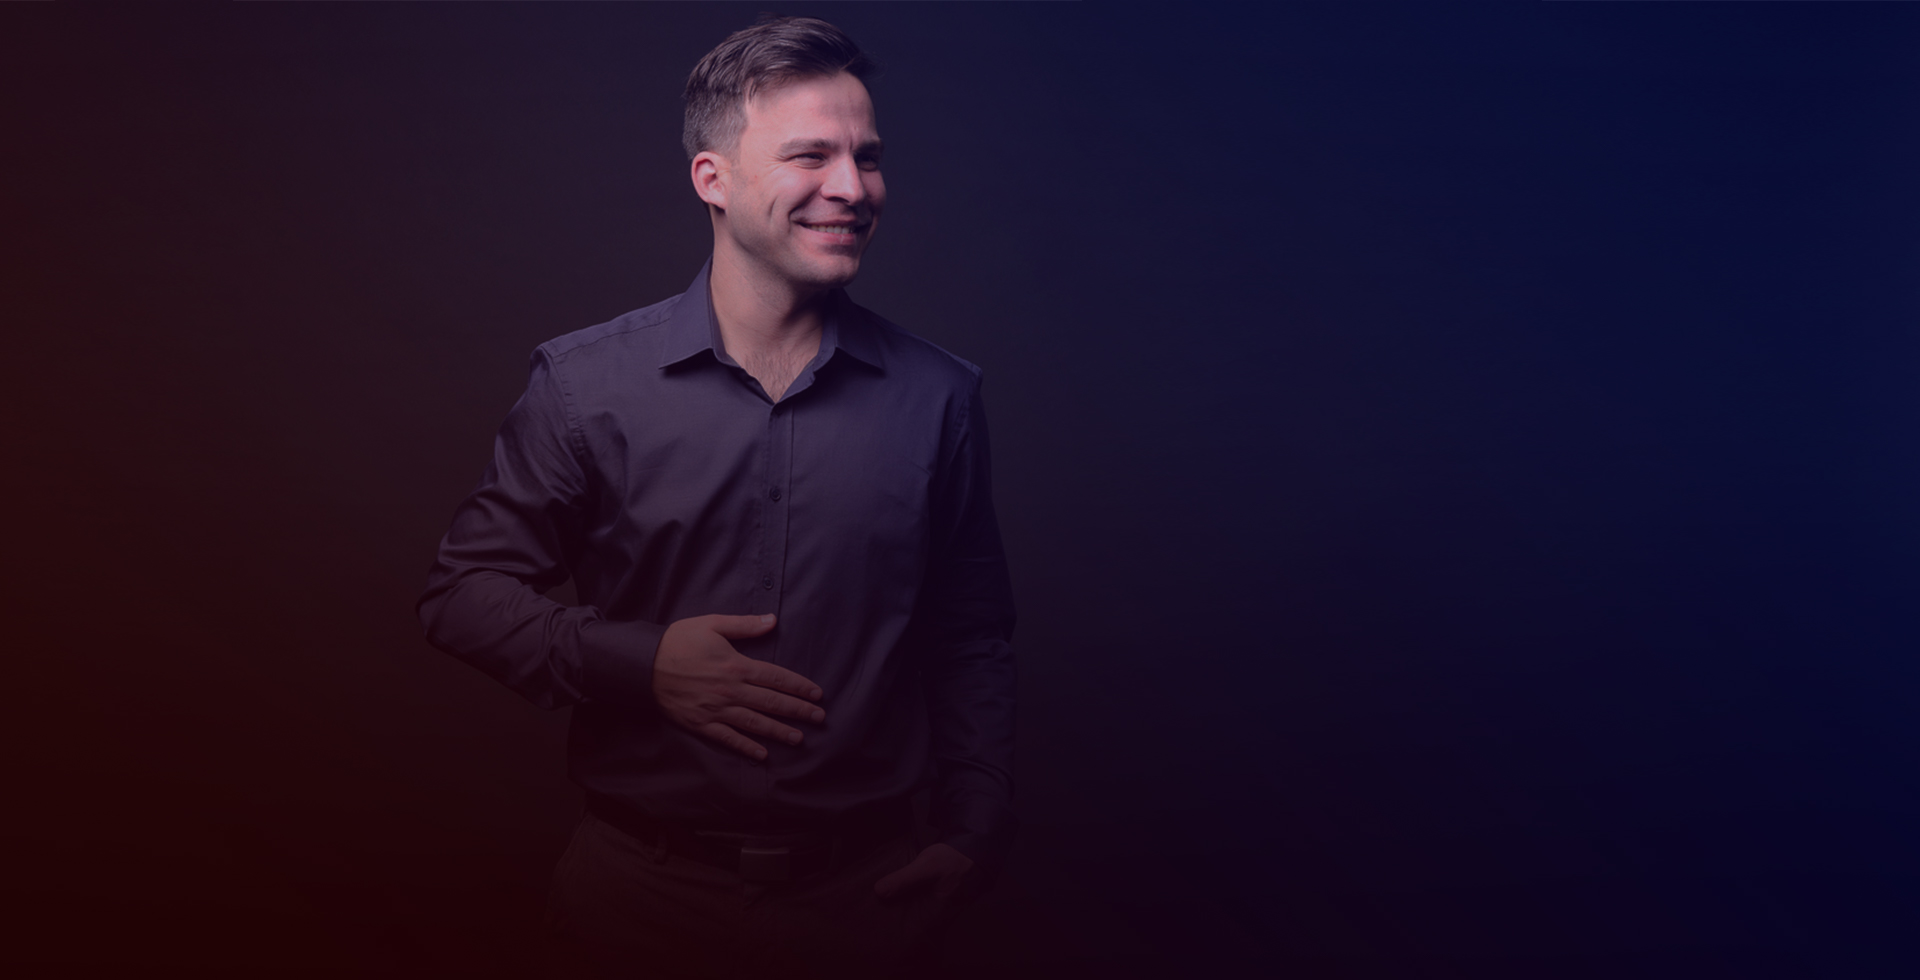
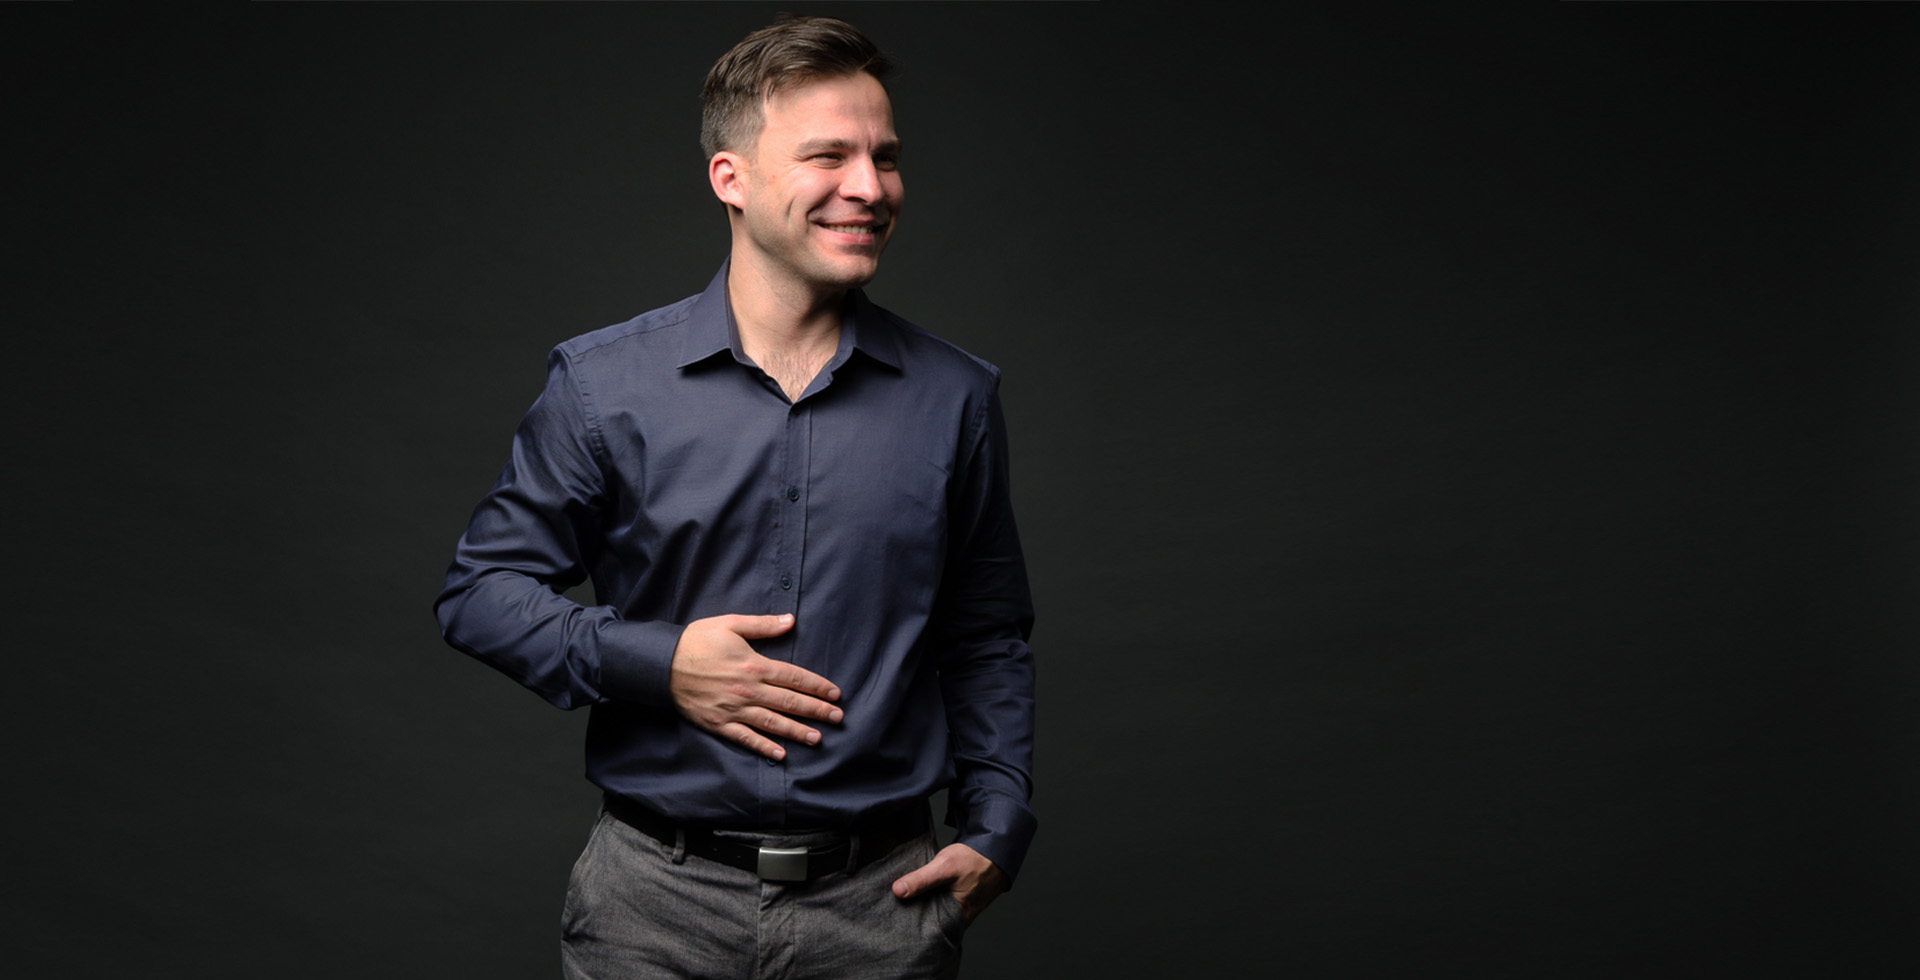
Backgrounds

diff --git a/index.html b/index.html
@@ -95,6 +95,19 @@
   </header>
   
   <main class="main-bg">
+    <figure class="main-bg__img main-bg__img--1 main-bg__img--active">
+      <img src="img/bg-main.jpg" alt="МАКСИМ МАРУГИН" width="1920" height="980">
+    </figure>
+    <figure class="main-bg__img main-bg__img--2">
+      <img src="img/bg-flipped.jpg" alt="МАКСИМ МАРУГИН" width="1920" height="980">
+    </figure>
+    <figure class="main-bg__img main-bg__img--3">
+      <img src="img/bg-training.jpg" alt="МАКСИМ МАРУГИН" width="1920" height="980">
+    </figure>
+    <figure class="main-bg__img main-bg__img--4">
+      <img src="img/bg-main.jpg" alt="МАКСИМ МАРУГИН" width="1920" height="980">
+    </figure>
+
     <section class="promo">
       <div class="promo__block">
         <h1>МАКСИМ МАРУГИН</h1>
@@ -554,18 +567,18 @@
         $("#training").arcticmodal({
           beforeOpen: function(data, el) {
             $('body').css('overflow-y', 'hidden');
-            $('.promo').addClass('blur');
+//            $('.promo').addClass('blur');
             $('.main-bg').addClass('blur');
           },
           afterClose: function(data, el) {
-            $('.promo').removeClass('blur');
+//            $('.promo').removeClass('blur');
             $('.main-bg').removeClass('blur');
             $('body').css('overflow-y', 'scroll');
           },
           overlay: {
             css: {
-              backgroundColor: 'rgba(255,255,255,0)',
-              opacity: .3,
+              backgroundColor: 'rgb(0, 0, 0)',
+              opacity: .8,
             }
           }
         });
@@ -584,8 +597,8 @@
           },
           overlay: {
             css: {
-              backgroundColor: 'rgba(255,255,255,0)',
-              opacity: .3,
+              backgroundColor: 'rgb(0, 0, 0)',
+              opacity: .8,
             }
           }
         });
@@ -604,8 +617,8 @@
           },
           overlay: {
             css: {
-              backgroundColor: 'rgba(255,255,255,0)',
-              opacity: .3,
+              backgroundColor: 'rgb(0, 0, 0)',
+              opacity: .8,
             }
           }
         });

diff --git a/js/script.js b/js/script.js
@@ -26,18 +26,34 @@ function onScroll(event){
   var decoHeight = parseInt($('body').css('height'), 10);
   if (scrollPos > 150) {
     $('.header').addClass('bg');
-    $('.footer-main').addClass('bg');
     $('.footer-main__scroll').hide();
     $('.footer-main__deco').css('height',  decoHeight / 100 - scrollPos/10, 10);
   } else {
     $('.header').removeClass('bg');
-    $('.footer-main').removeClass('bg');
     $('.footer-main__scroll').show();
   }
   if (scrollPos > decoHeight - scrollPos/5) {
     $('.footer-main').fadeOut();
   } else {
     $('.footer-main').fadeIn();
+  }
+  if (scrollPos > 1.5 * window.innerHeight) {
+    $('.main-bg__img').removeClass('main-bg__img--active');
+    $('.main-bg__img--2').addClass('main-bg__img--active');
+    $('.main-bg__img--active').addClass('blur');
+  } else {
+    $('.main-bg__img').removeClass('main-bg__img--active');
+    $('.main-bg__img--1').addClass('main-bg__img--active');
+    $('.main-bg__img--active').removeClass('blur');
+  }
+  if (scrollPos > 3 * window.innerHeight) {
+    $('.main-bg__img').removeClass('main-bg__img--active');
+    $('.main-bg__img--3').addClass('main-bg__img--active');
+  }
+  if (scrollPos > 6 * window.innerHeight) {
+    $('.main-bg__img').removeClass('main-bg__img--active');
+    $('.main-bg__img--4').addClass('main-bg__img--active');
+    $('.main-bg__img--active').removeClass('blur');
   }
 }
 
@@ -56,9 +72,9 @@ btnList.addEventListener("click", function() {
   btnPlate.classList.remove('title__btn-active');
 });
 
+//Media-queries
 function onWindowChange() {
   if (window.innerWidth < 1022) {
-    console.log(window.innerWidth);
     $('.title__list').hide();
     $('.title__plate').hide();
     $('.footer-main').hide();

diff --git a/less/blocks/social.less b/less/blocks/social.less
@@ -6,6 +6,7 @@
 
 .social-btns__item {
   margin-left: 11px;
+  margin-bottom: 2px;
   
   &:hover,
   &:active {
@@ -47,7 +48,7 @@
   &--yt {
     background-image: url(../img/icon-youtube.png);
     background-size: 10px 12px;
-    background-position: 15px center;
+    background-position: 15px 12px;
   }
   
   &--vk {
@@ -89,17 +90,6 @@
   p {
     margin-top: 0;
   }
-  
-  a {
-    color: #fff;
-    transition: ease-out 0.3s;
-    
-    &:hover,
-    &:active {
-      color: @blue;
-      transition: ease-out 0.3s;
-    }
-  }
 }
 
 .social__btn {
@@ -126,7 +116,7 @@
   justify-content: center;
   align-items: center;
   margin-right: 35px;
-  color: rgba(255,255,255,0.7);
+  color: rgb(203, 203, 203);;
   font-size: 10px;
   font-weight: 700;
   letter-spacing: 2px;
@@ -134,14 +124,16 @@
   transition: ease-out 0.3s;
   
   &--yt .social__img {
-    padding-left: 5px;
+    padding-left: 3px;
     background-color: rgb(248, 37, 28);
+    box-shadow: 0px 3px 6.64px 1.36px rgba(0, 0, 0, 0.17);
   }
   
   &--vk .social__img {
     padding-right: 5px;
     background-color: rgb(95,131,170);
     background-image: linear-gradient( 90deg, rgb(95,131,170) 0%, rgb(79,123,170) 100%);
+    box-shadow: 0px 3px 6.64px 1.36px rgba(0, 0, 0, 0.17);
   }
   
   &--in .social__img {
@@ -150,11 +142,12 @@
     background-color: rgb(248, 37, 28);
     background-image: url(../img/icon-bg-insta.png);
     background-repeat: no-repeat;
+    box-shadow: 0px 3px 6.64px 1.36px rgba(0, 0, 0, 0.17);
   }
   
   &:hover,
   &:active {
-    color: rgba(255,255,255,1);
+    color: #fff;
     transition: ease-out 0.3s;
   }
 }

diff --git a/less/blocks/modal.less b/less/blocks/modal.less
@@ -2,11 +2,11 @@
   position: fixed;
   left: 0;
   right: 0;
-  top: 72px;
+  top: 0;
   bottom: 0;
   z-index: 1000;
 }
-.arcticmodal-container { position: fixed; left: 0; top: 72px; right: 0; bottom: 0; z-index: 1000; }
+.arcticmodal-container { position: fixed; left: 0; top: 0; right: 0; bottom: 0; z-index: 1000; }
 .arcticmodal-container { overflow: auto; margin: 0; padding: 0; border: 0; border-collapse: collapse; }
 *:first-child+html .arcticmodal-container { height: 100% }
 .arcticmodal-container_i { height: 100%; margin: 0 auto; }
@@ -16,6 +16,7 @@
 
 .modal {
   position: relative;
+  z-index: 1000;
   width: 370px;
   padding: 35px 30px;
   box-sizing: border-box;
@@ -62,6 +63,14 @@
   background-size: 16px 16px;
   background-repeat: no-repeat;
   background-position: center;
+  transition: ease-out 0.3s;
+  
+  &:hover,
+  &:active {
+    background-color: #bd1a1a;
+    background-image: url(../img/ic_close_white_24px.svg);
+    transition: ease-out 0.3s;
+  }
 }
 
 .modal__form {
@@ -72,9 +81,10 @@
   width: 100%;
   height: 40px;
   padding: 0 20px;
-  padding-top: 5px;
+  padding-top: 2px;
   margin-bottom: 20px;
   color: #000;
+  font-size: 10px;
   font-weight: 700;
   border-radius: 20px;
   border: 1px solid rgb(232, 232, 232);

diff --git a/less/scaffolding.less b/less/scaffolding.less
@@ -83,6 +83,42 @@ h3 {
 .main-bg {
   width: 100%;
   position: relative;
-  background-color: #0a0f4d;
-  background-image: linear-gradient(45deg, #390b0f, #0a0f4d);
+//  background-color: #0a0f4d;
+//  background-image: linear-gradient(45deg, #390b0f, #0a0f4d);
+}
+
+.main-bg__img {
+  opacity: 0;
+  display: flex;
+  justify-content: center;
+  align-items: flex-start;
+  height: 100vh;
+  position: fixed;
+  top: 0;
+  left: 0;
+  right: 0;
+  z-index: -1;
+  transition: ease-out 0.3s;
+  
+  img {
+    width: 100%;
+    height: auto;
+  }
+  
+  &::after {
+    content: "";
+    position: absolute;
+    top: 0;
+    left: 0;
+    right: 0;
+    bottom: 0;
+    background-image:
+      linear-gradient(45deg, rgba(161,8,22,0.3), rgba(5,21,226,0.3)),
+      linear-gradient(to top, #000, rgba(0,0,0,0));
+  }
+  
+  &--active {
+    opacity: 1;
+    transition: ease-out 0.3s;
+  }
 }

diff --git a/less/blocks/promo.less b/less/blocks/promo.less
@@ -6,11 +6,6 @@
   flex-direction: column;
   justify-content: flex-start;
   align-items: center;
-  background-image: url(../img/bg-main.jpg);
-  background-repeat: no-repeat;
-  background-position: center top;
-  background-size: cover;
-  transition: transform 0.05s;
   
   h1 {
     font-size: 34px;
@@ -27,14 +22,9 @@
     max-width: 450px;
     margin-top: 0;
   }
-  
-  &--internal {
-    background-image: url(../img/bg-flipped.jpg);
-  }
-  
+    
   &--bg {
     padding-top: 95px;
-    background-image: none;
     
     h1 {
       margin-bottom: 0;
@@ -49,7 +39,6 @@
   &--contacts {
     min-height: 100vh;
     height: auto;
-    background-image: url(../img/bg-flipped.jpg);
     padding-top: 200px;
     padding-bottom: 260px;
     align-items: flex-start;

diff --git a/less/blocks/footer.less b/less/blocks/footer.less
@@ -12,7 +12,7 @@
   align-items: center;
   background-color: rgba(255, 255, 255, 0);
   transition: background-color ease-out 0.3s;
-  z-index: 2000;
+  z-index: 900;
   
   p {
     font-size: 10px;
@@ -36,7 +36,7 @@
 }
 
 .bg {
-  background-color: rgba(255, 255, 255, 0.1);
+  background-color: rgba(0, 0, 0, 0.5);
   transition: background-color ease-out 0.3s;
 }
 

diff --git a/less/blocks/btn.less b/less/blocks/btn.less
@@ -108,5 +108,11 @@
     background-image: url(../img/ic_arrow_forward_white_24px.svg);
     background-size: contain;
     background-repeat: no-repeat;
+    transition: ease-out 0.3s;
+  }
+  
+  &:hover::after {
+    right: 15px;
+    transition: ease-out 0.3s;
   }
 }

diff --git a/less/blocks/header.less b/less/blocks/header.less
@@ -65,4 +65,6 @@
   height: 40px;
   margin-left: 30px;
   margin-right: 30px;
+  margin-bottom: 2px;
+  padding-top: 2px;
 }
